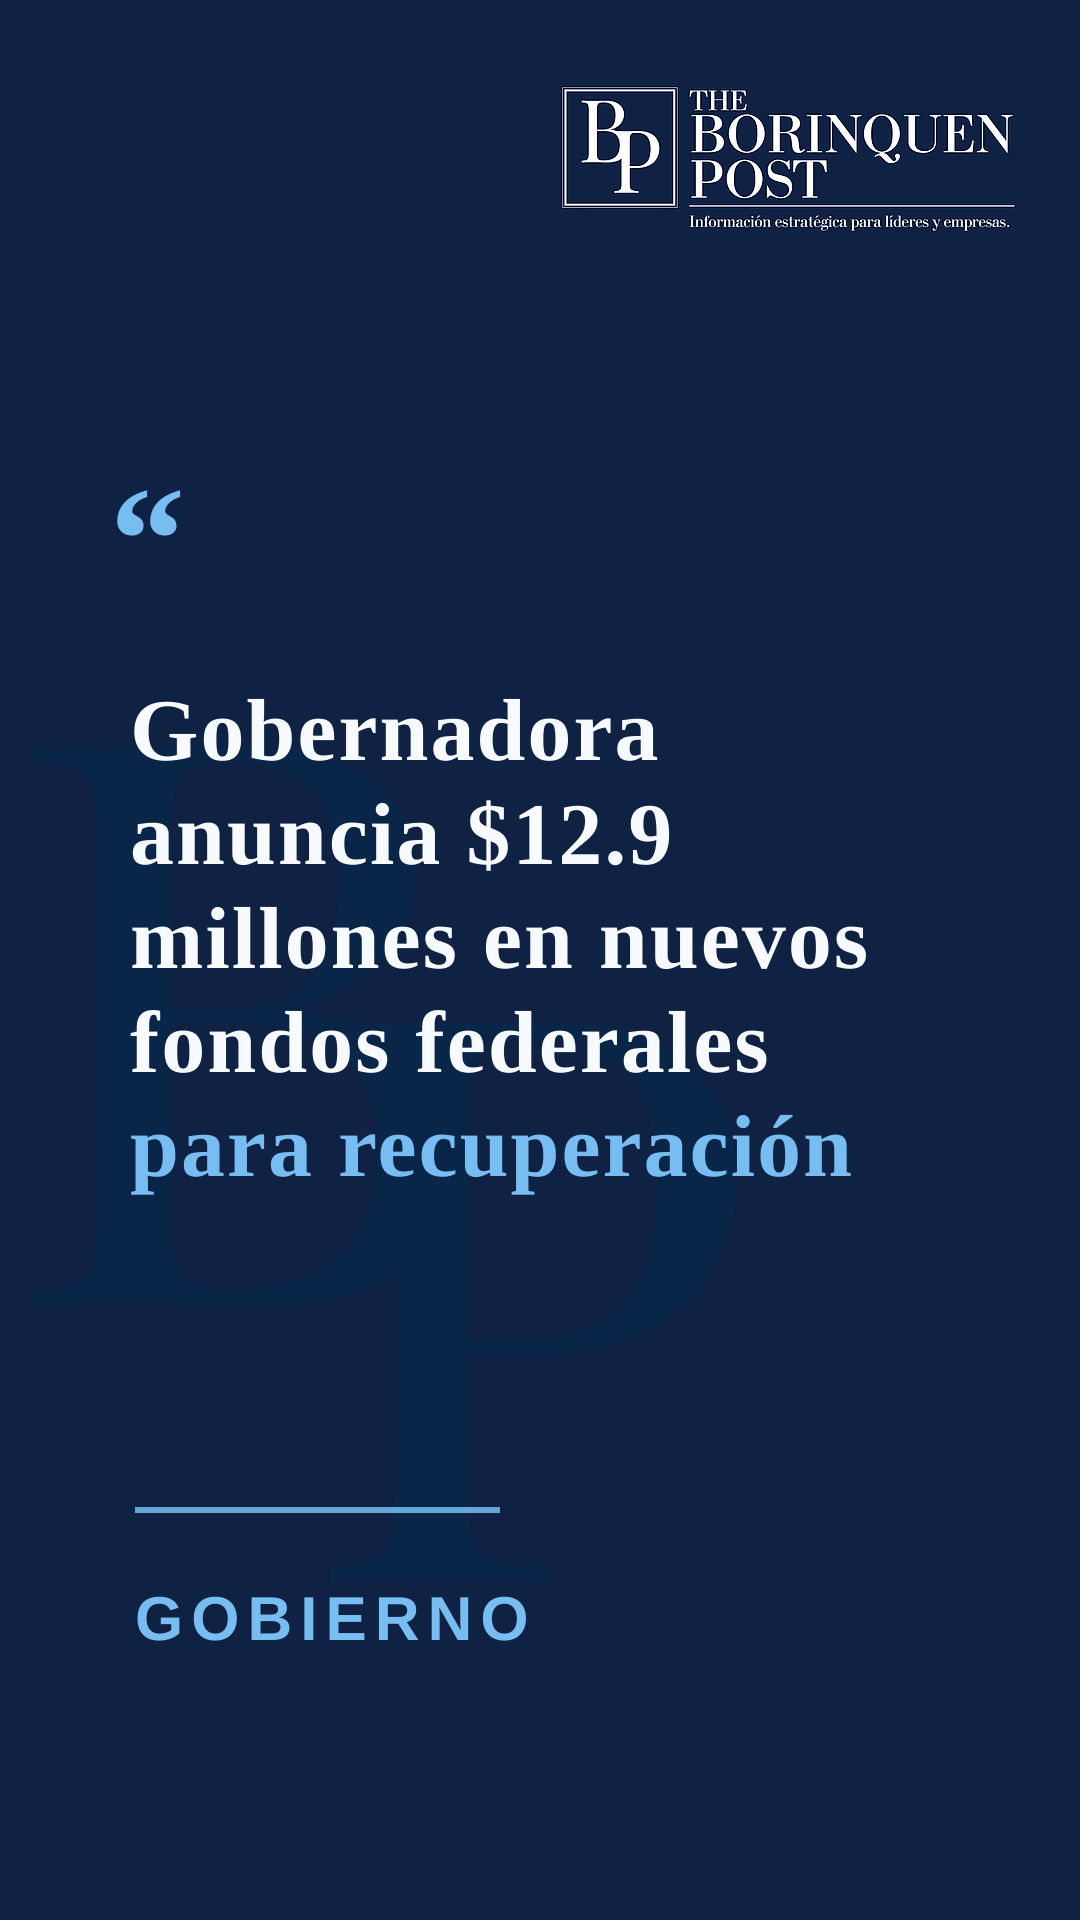
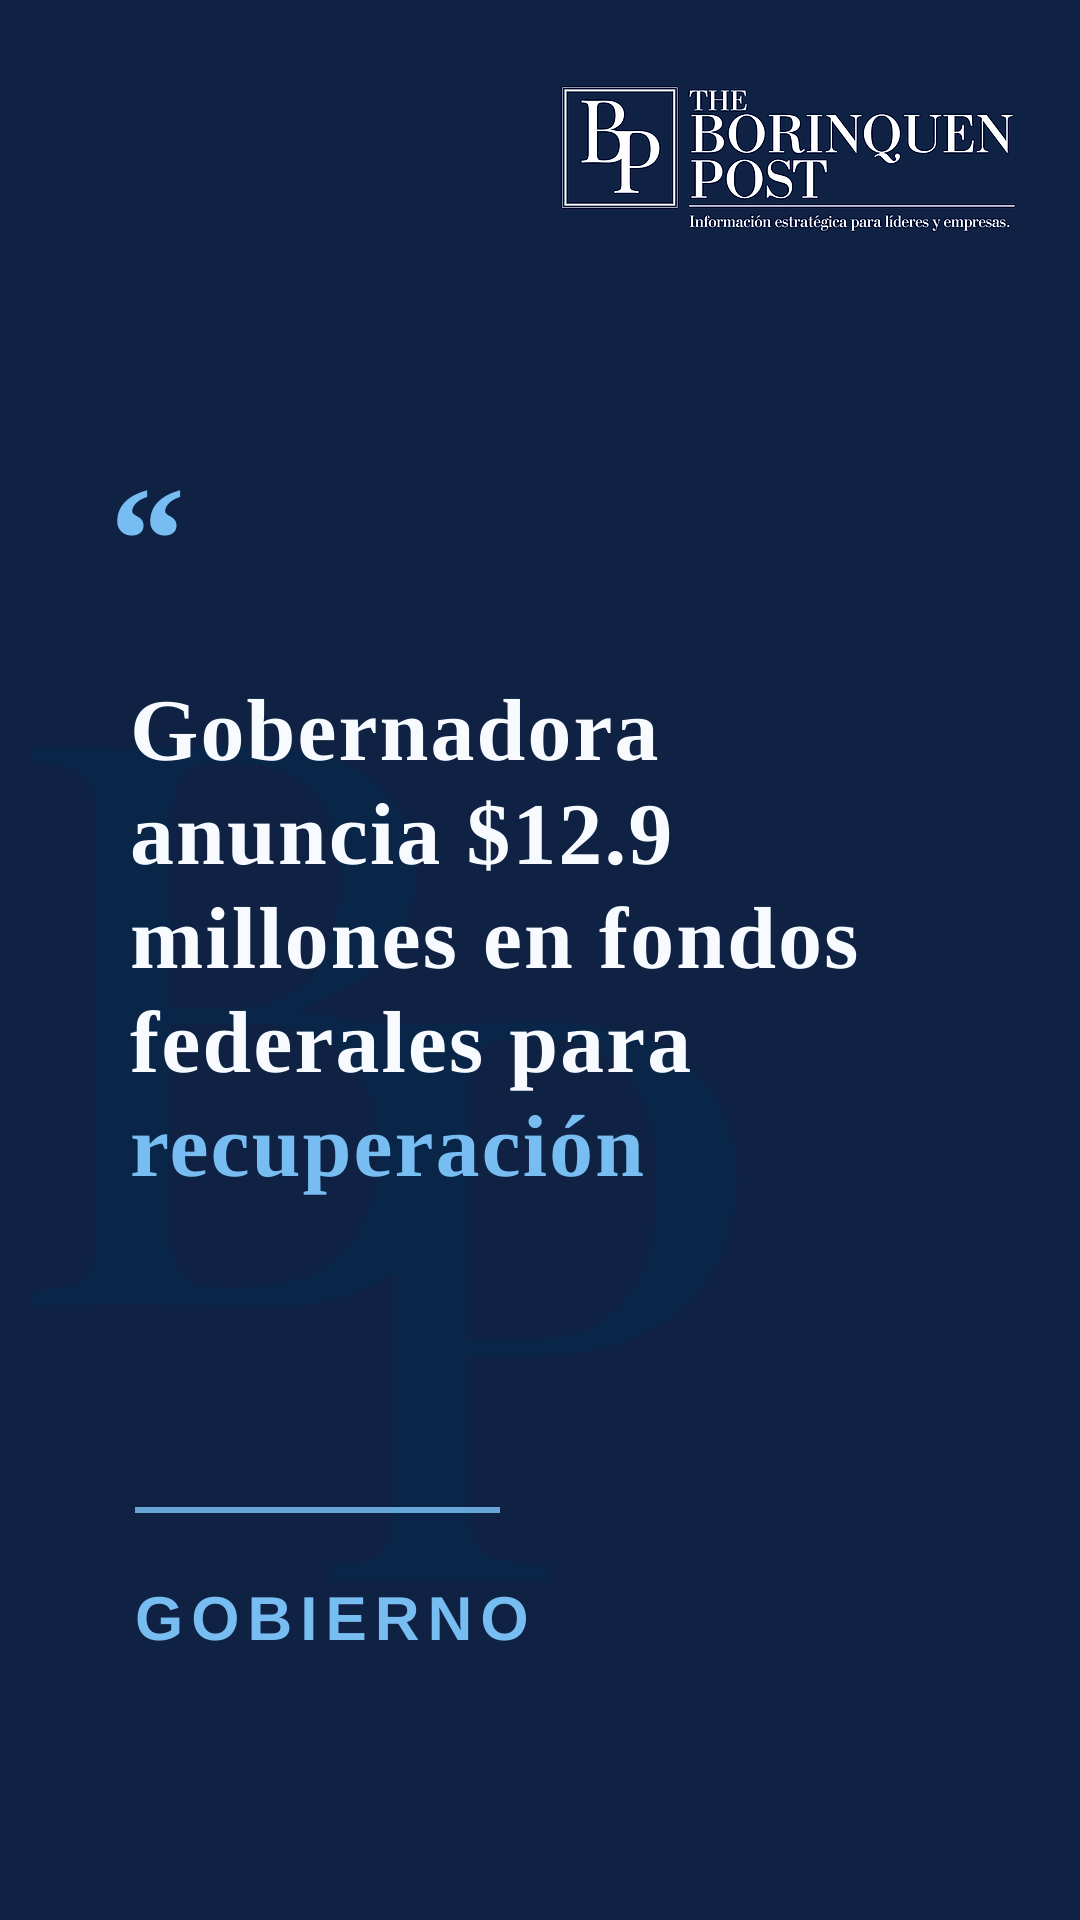
chore: publish posts from Google Sheet

Changed region(s): [[0.1222, 0.4688, 0.7944, 0.625]]

diff --git a/_posts/2026-06-10-gobernadora-anuncia-12-9-millones-fondos-federales-proyectos-recuperacion-puerto-rico.md b/_posts/2026-06-10-gobernadora-anuncia-12-9-millones-fondos-federales-proyectos-recuperacion-puerto-rico.md
@@ -1,0 +1,37 @@
+---
+layout: post
+title: "Gobernadora anuncia $12.9 millones en nuevos fondos federales para proyectos de recuperación en Puerto Rico"
+seo_title: "Gobernadora de Puerto Rico anuncia $12.9 millones en nuevos fondos federales para proyectos de recuperación"
+description: "La gobernadora Jenniffer González Colón anunció la aprobación de $12.9 millones en fondos federales de FEMA para proyectos de reconstrucción y fortalecimiento de infraestructura crítica en Puerto Rico."
+date: "2026-06-10"
+author: "The Borinquen Post"
+category: "gobierno"
+categories: ["gobierno"]
+image: "/assets/images/generated/gobernadora-anuncia-12-9-millones-fondos-federales-proyectos-recuperacion-puerto-rico-web.png"
+web_image: "/assets/images/generated/gobernadora-anuncia-12-9-millones-fondos-federales-proyectos-recuperacion-puerto-rico-web.png"
+instagram_image: "/assets/images/generated/gobernadora-anuncia-12-9-millones-fondos-federales-proyectos-recuperacion-puerto-rico.png"
+story_image: "/assets/images/generated/gobernadora-anuncia-12-9-millones-fondos-federales-proyectos-recuperacion-puerto-rico-story.png"
+featured_image: "/assets/images/generated/gobernadora-anuncia-12-9-millones-fondos-federales-proyectos-recuperacion-puerto-rico-web.png"
+thumbnail: "/assets/images/generated/gobernadora-anuncia-12-9-millones-fondos-federales-proyectos-recuperacion-puerto-rico-web.png"
+cover: "/assets/images/generated/gobernadora-anuncia-12-9-millones-fondos-federales-proyectos-recuperacion-puerto-rico-web.png"
+og_image: "/assets/images/generated/gobernadora-anuncia-12-9-millones-fondos-federales-proyectos-recuperacion-puerto-rico.png"
+twitter:image: "/assets/images/generated/gobernadora-anuncia-12-9-millones-fondos-federales-proyectos-recuperacion-puerto-rico.png"
+sources: "Gobierno de Puerto Rico, Administración de Asuntos Federales de Puerto Rico (PRFAA): https://www.prfaa.pr.gov/recent-press-releases/gobernadora-anuncia-mas-de-12-9-millones-en-nuevos-fondos-federales-de-fema-para-proyectos-de-recuperacion-en-puerto-rico"
+slug: "gobernadora-anuncia-12-9-millones-fondos-federales-proyectos-recuperacion-puerto-rico"
+---
+
+<p class="article-byline-note"><em>Redacción por The Borinquen Post.</em></p>
+
+La gobernadora de Puerto Rico, Jenniffer González Colón, anunció el 8 de junio de 2026 la aprobación de $12,957,500.36 en nuevos fondos federales de la Agencia Federal para el Manejo de Emergencias (FEMA) destinados a proyectos de reconstrucción y fortalecimiento de infraestructura crítica en la isla. Estos fondos se utilizarán para reparar y mejorar servicios públicos afectados por el huracán María, los terremotos de 2020, el huracán Fiona y la tormenta tropical Ernesto.
+
+La gobernadora expresó su agradecimiento al presidente Donald Trump y al secretario de Seguridad Nacional, Markwayne Mullin, por su compromiso con la recuperación de Puerto Rico y la agilización de los procesos federales de reconstrucción. Destacó que esta inversión es parte de los esfuerzos coordinados entre el gobierno estatal y federal para acelerar la recuperación de la isla.
+
+Estos fondos federales se suman a los esfuerzos continuos del gobierno de Puerto Rico para reconstruir y mejorar la infraestructura crítica afectada por desastres naturales en los últimos años. La administración de González Colón ha priorizado la recuperación y el fortalecimiento de los servicios públicos esenciales para garantizar la resiliencia y sostenibilidad de la isla.
+
+La asignación de estos fondos refleja el compromiso continuo del gobierno federal con la recuperación de Puerto Rico y la mejora de la calidad de vida de sus ciudadanos. Se espera que la implementación de estos proyectos contribuya significativamente a la reconstrucción y modernización de la infraestructura crítica de la isla, beneficiando a miles de puertorriqueños afectados por los desastres naturales recientes.
+
+La gobernadora González Colón reiteró su compromiso con la transparencia y la eficiencia en la utilización de estos fondos, asegurando que se destinarán de manera efectiva a los proyectos prioritarios que impacten directamente en la calidad de vida de los residentes de Puerto Rico.
+
+La comunidad puertorriqueña espera con optimismo la ejecución de estos proyectos, confiando en que contribuirán a la recuperación económica y social de la isla, fortaleciendo su infraestructura y preparándola para enfrentar futuros desafíos.
+
+La asignación de estos fondos es un paso importante hacia la recuperación integral de Puerto Rico, demostrando la colaboración efectiva entre el gobierno federal y estatal para superar los desafíos impuestos por los desastres naturales y avanzar hacia un futuro más resiliente y próspero para la isla.
